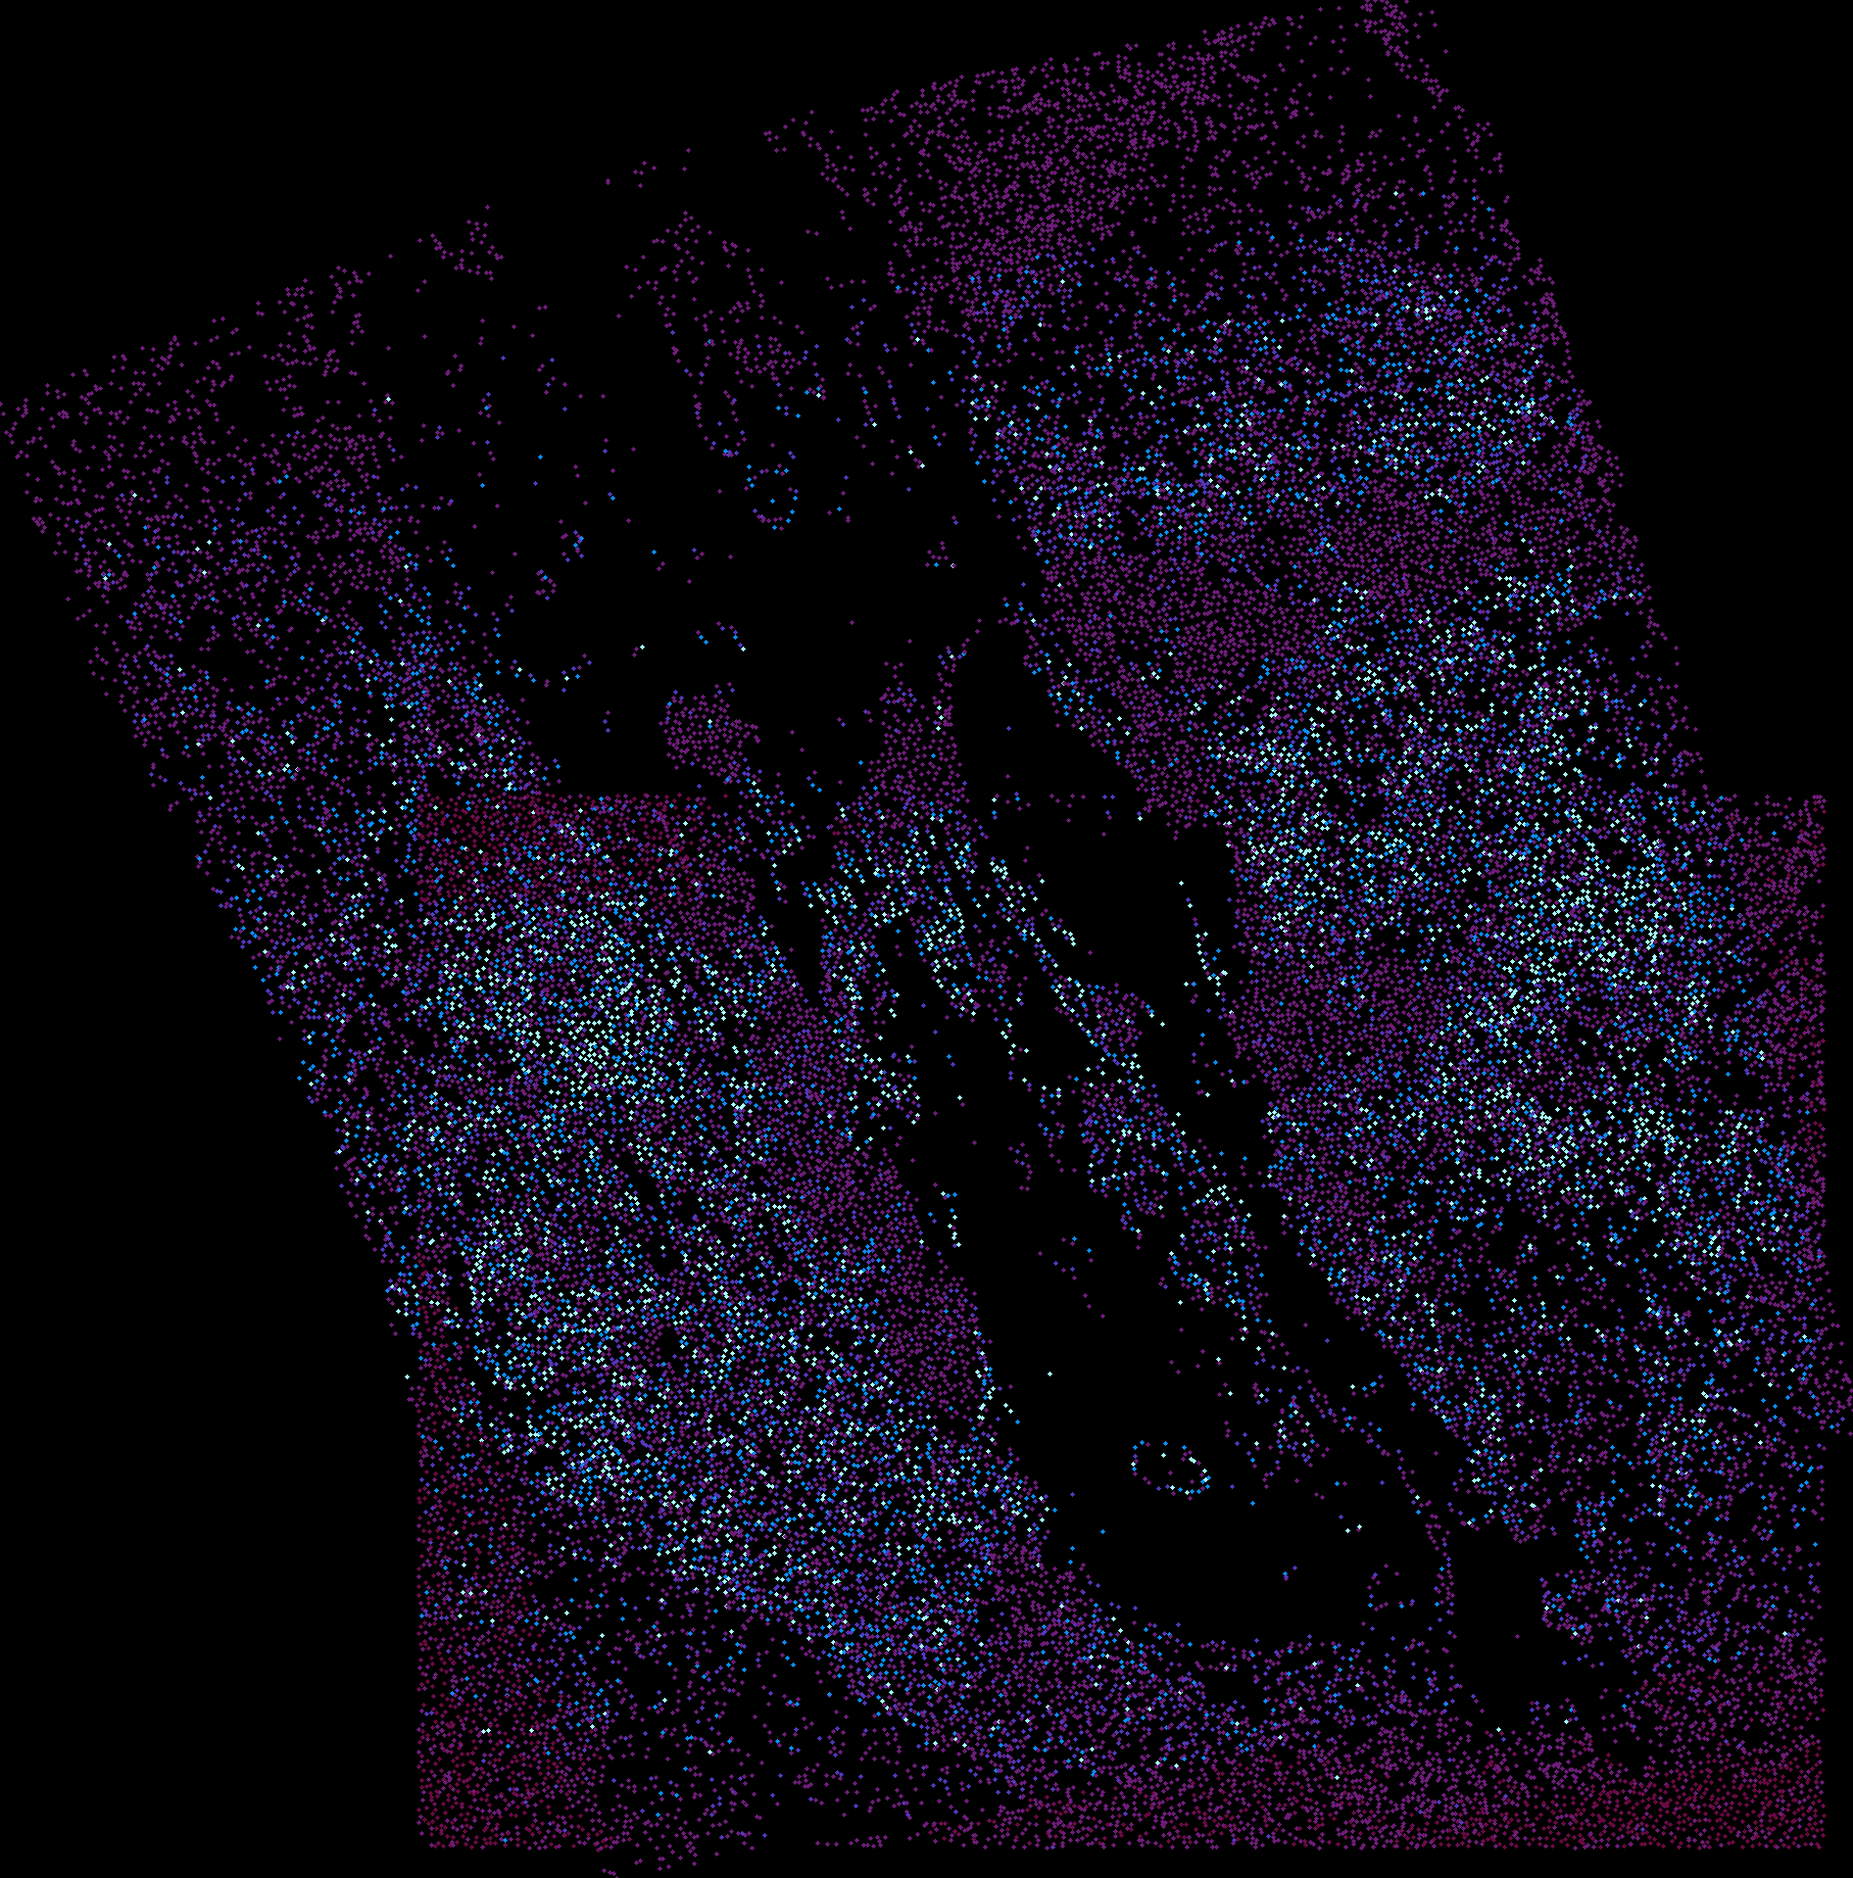
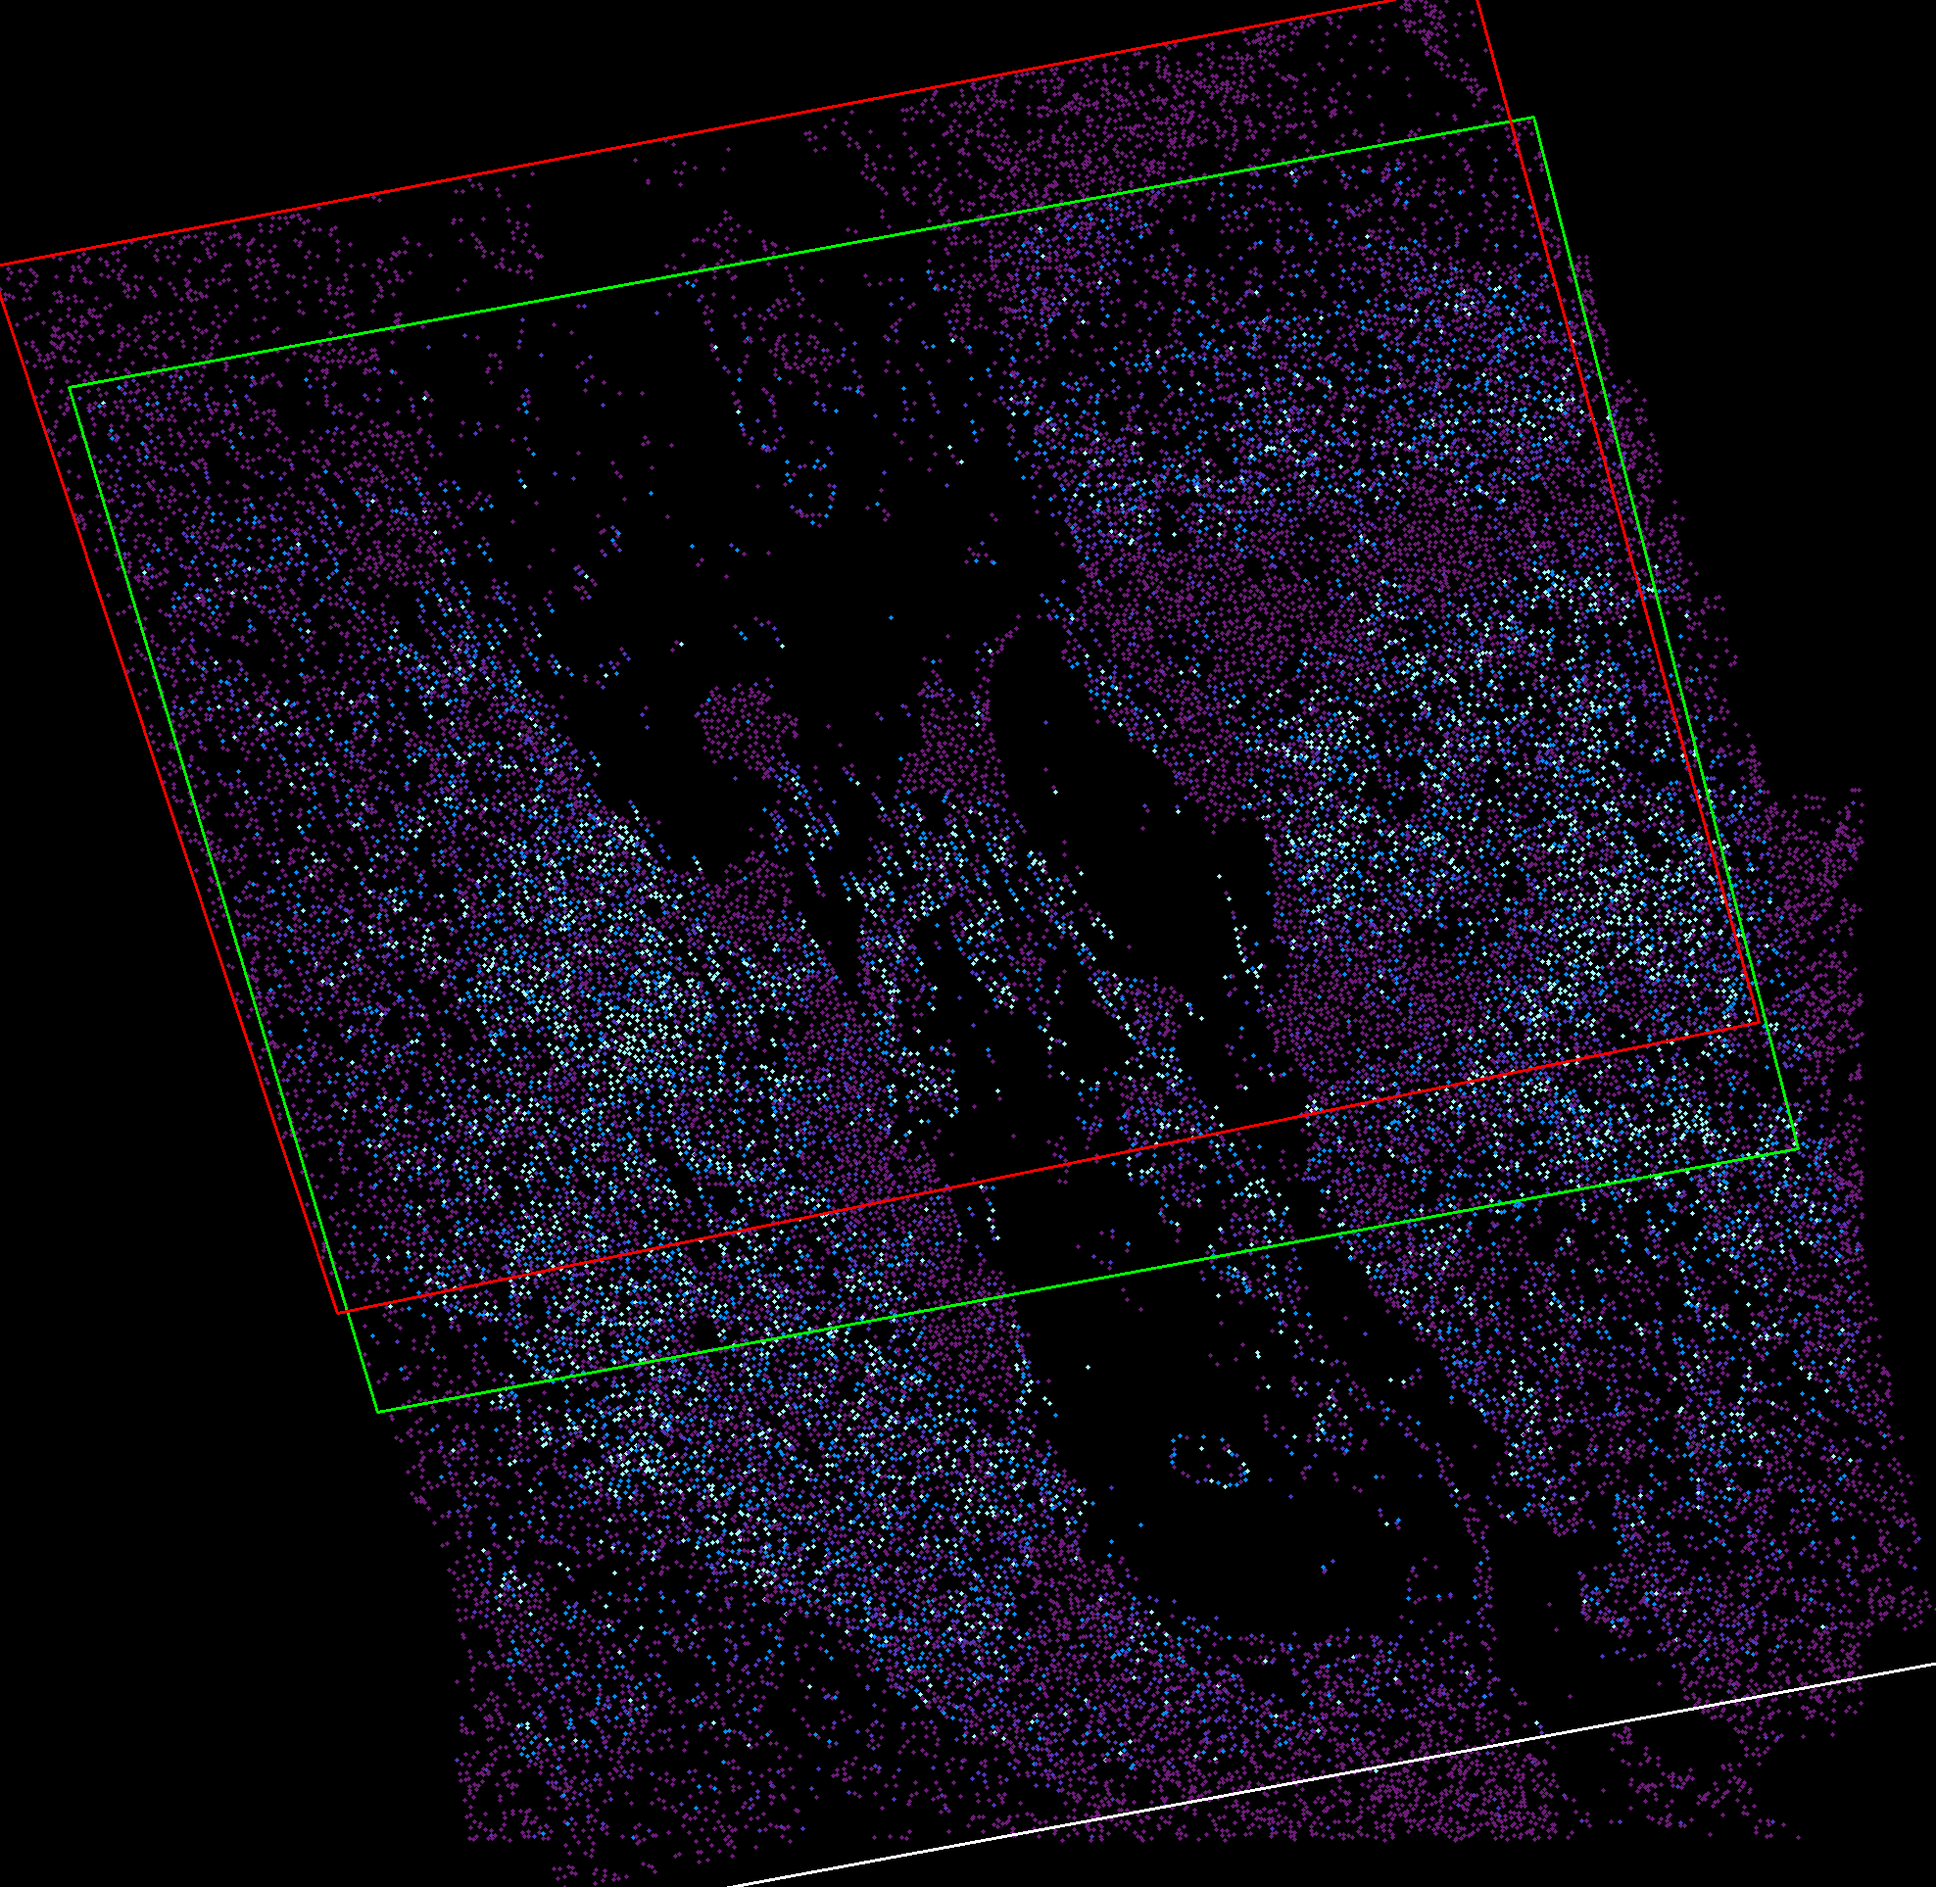
keypoints fixed

diff --git a/main.py b/main.py
@@ -70,16 +70,16 @@ def GetSearchArea(Frame, ScaleFactor=2):
 
     new_corners = center + scaled_vectors
 
-    plt.figure(figsize=(10, 10))
-    plt.plot(center[0], center[1], 'ro', label='Center')
-    plot_rectangle(corners, 'b', 'Original Frame')
-    plot_rectangle(new_corners, 'g', 'Search Area')
+    # plt.figure(figsize=(10, 10))
+    # plt.plot(center[0], center[1], 'ro', label='Center')
+    # plot_rectangle(corners, 'b', 'Original Frame')
+    # plot_rectangle(new_corners, 'g', 'Search Area')
 
-    plt.xlabel('X')
-    plt.ylabel('Y')
-    plt.grid(True)
-    plt.legend()
-    plt.title('Search Area for the Next Image')
+    # plt.xlabel('X')
+    # plt.ylabel('Y')
+    # plt.grid(True)
+    # plt.legend()
+    # plt.title('Search Area for the Next Image')
     
     # plt.savefig('search_area.png')
     # plt.show()
@@ -146,7 +146,8 @@ if __name__ == '__main__':
         # test_rotation = previous_box @ rotation_matrix
         # SearchArea = GetSearchArea(test_rotation, ScaleFactor=2)
         kp_storage.add_previous_box(previous_box)
-        SearchArea = GetSearchArea(previous_box, ScaleFactor=1.2)
+        # SearchArea = GetSearchArea(previous_box, ScaleFactor=1.05)
+        SearchArea = GetSearchArea(previous_box, ScaleFactor=1.5)
         keypoints1, descriptors1 = kp_storage.query_keypoints(SearchArea)
 
         #convert to numpy array
@@ -255,8 +256,18 @@ if __name__ == '__main__':
         for match in good_matches:
             kp_data = keypoints1[match.queryIdx]
 
-            # kp_coords = np.array(keypoints1[match.queryIdx].pt)
+            # kp_coords = np.array([[kp_data["coords"]]], dtype=np.float32)
+            # transformed_coords = cv.perspectiveTransform(np.array([kp_coords]).reshape(-1, 1, 2), H_inv)
             
+            # kpoint = cv.KeyPoint(
+            #     x=transformed_coords[0][0][0], 
+            #     y=transformed_coords[0][0][1], 
+            #     size=kp_data["scale"],
+            #     angle=kp_data["angle"],
+            #     response=kp_data["response"],
+            #     octave=kp_data["octave"]
+            # )
+
             kpoint = cv.KeyPoint(x=kp_data["coords"][0], 
                                  y=kp_data["coords"][1], 
                                  size=kp_data["scale"],
@@ -273,13 +284,14 @@ if __name__ == '__main__':
 
         ############ update realability by 0.7 to points that are not matched, but lying within the search area and new image area ########
 
-        print("Search Area: ", SearchArea)
+        # print("Search Area: ", SearchArea)
         search_area_polygon = Polygon(SearchArea.reshape(-1, 2))
 
         kp_storage.add_search_area(SearchArea)
         # new_image_bounding_box = cv.boundingRect(warped_corners_img2)
         # new_image_polygon = Polygon(warped_corners_img2.reshape(-1, 2))
         new_image_polygon = Polygon(transformed_corners_add.reshape(-1, 2))
+        kp_storage.add_new_image_polygon(transformed_corners_add.reshape(-1, 2))
 
         not_matched_keypoints = []
         not_matched_descriptors = []
@@ -287,24 +299,40 @@ if __name__ == '__main__':
         new_keypoints = []
         new_descriptors = []
         for kp, ds in zip(keypoints2, descriptors2):
-            if not search_area_polygon.contains(Point(kp.pt)) or not new_image_polygon.contains(Point(kp.pt)):
-                not_matched_keypoints.append(kp)
+
+            kp_coords = np.array([kp.pt], dtype=np.float32).reshape(-1, 1, 2)
+            transformed_coords = cv.perspectiveTransform(kp_coords, H_inv)
+            transformed_point = Point(transformed_coords[0][0][0], transformed_coords[0][0][1])
+
+            new_kp = cv.KeyPoint(x=transformed_coords[0][0][0], 
+                                 y=transformed_coords[0][0][1], 
+                                 size=kp.size,
+                                 angle=kp.angle,
+                                 response=kp.response,
+                                 octave=kp.octave)
+
+            # if not search_area_polygon.contains(Point(kp.pt)) or not new_image_polygon.contains(Point(kp.pt)):
+            if not search_area_polygon.contains(transformed_point) or not new_image_polygon.contains(transformed_point):
+                not_matched_keypoints.append(new_kp)
                 not_matched_descriptors.append(ds)
             else:
-                new_keypoints.append(kp)
+                new_keypoints.append(new_kp)
                 new_descriptors.append(ds)
 
         kp_storage.add_or_update_keypoints(not_matched_keypoints, not_matched_descriptors, color=color, reliability_multiplier=0.7, iteration=i+1)
 
-        keypoints2_coords = np.array([kp.pt for kp in new_keypoints], dtype=np.float32).reshape(-1, 1, 2)
+        # keypoints2_coords = np.array([kp.pt for kp in new_keypoints], dtype=np.float32).reshape(-1, 1, 2)
 
-        keypoints2_coords_transformed = cv.perspectiveTransform(keypoints2_coords, H_inv)
+        # keypoints2_coords_transformed = cv.perspectiveTransform(keypoints2_coords, H_inv)
 
-        if keypoints2_coords_transformed is None:
-            print("ERROR: keypoints2_coords_transformed is None, cannot add to storage")
-        else:
-            keypoints2_transformed = [cv.KeyPoint(x=pt[0][0], y=pt[0][1], size=1) for pt in keypoints2_coords_transformed]
-            kp_storage.add_or_update_keypoints(keypoints2_transformed, new_descriptors, color=color, iteration=i+1)
+        # if keypoints2_coords_transformed is None:
+        #     print("ERROR: keypoints2_coords_transformed is None, cannot add to storage")
+        # else:
+        #     keypoints2_transformed = [cv.KeyPoint(x=pt[0][0], y=pt[0][1], size=1) for pt in keypoints2_coords_transformed]
+        #     kp_storage.add_or_update_keypoints(keypoints2_transformed, new_descriptors, color=color, iteration=i+1)
+
+        kp_storage.add_or_update_keypoints(new_keypoints, new_descriptors, color=color, iteration=i+1)
+        
         
         # keypoints2_transformed = [cv.KeyPoint(x=pt[0][0], y=pt[0][1], size=1) for pt in keypoints2_coords_transformed]
         # if keypoints2_transformed is None:
@@ -325,14 +353,13 @@ if __name__ == '__main__':
 
     Sticher = stitcher.Stitcher(image_storage)
     # final_image = Sticher.stitch_images()
-    final_image = Sticher.stitch_images(blending=True)
-    # final_image = Sticher.stitch_images(gradient=True)
+    # final_image = Sticher.stitch_images(blending=True)
+    final_image = Sticher.stitch_images(gradient=True)
 
 
-    # cv.imwrite(f'out/blended/golf/blended_img_cnt{range_imgs+1}.png', main_canvas)
+    # cv.imwrite(f'out/blended/golf/blended_img_cnt{range_imgs+1}.png', final_image)
 
     cv.imwrite(f'out/blended/highway/blended_img_cnt_new_{range_imgs+1}.png', final_image)
-    # cv.imwrite(f'out/blended/highway/blended_img_cnt{range_imgs+1}.png', main_canvas)
 
     # count runtime
     end = time.time()

diff --git a/KeypointStorage.py b/KeypointStorage.py
@@ -12,12 +12,23 @@ class KeypointStorage:
         Parameters:
         - threshold: Distance threshold to consider a keypoint as an existing one (for updates).
         """
+        self.new_image_polygons = []
         self.previous_boxes = []
         self.search_areas = []
+
         self.keypoints_coords = []       # List to store coordinates for KDTree
         self.keypoints_data = {}         # Dictionary to store keypoints data
         self.kdtree = None               # KDTree for fast spatial lookup
         self.threshold = threshold       # Distance threshold for matching existing keypoints
+
+    def add_new_image_polygon(self, new_image_polygon):
+        """
+        Adds a new image polygon to the storage.
+        
+        Parameters:
+        - new_image_polygon: List of 4 coordinates (each a tuple of x, y) representing the corners of the new image.
+        """
+        self.new_image_polygons.append(new_image_polygon)
 
     def add_previous_box(self, previous_box):
         """
@@ -129,8 +140,8 @@ class KeypointStorage:
             kp_coords = kp_data["coords"]
             kp_reliability = kp_data["reliability"]
 
-            if kp_reliability <= 0.3:
-                continue
+            # if kp_reliability <= 0.3:
+            #     continue
 
             point = Point(kp_coords)
             if polygon.contains(point):
@@ -188,12 +199,28 @@ class KeypointStorage:
             # cv.circle(canvas, (int(x+offset_x), int(y+offset_y)), int(dot_size*reliability), color, -1)
             cv.circle(canvas, (int(x+offset_x), int(y+offset_y)), dot_size, color, -1)
         
-        for search_area in self.search_areas:
-            for i in range(4):
-                cv.line(canvas, (int(search_area[i][0]+offset_x), int(search_area[i][1]+offset_y)), (int(search_area[(i+1)%4][0]+offset_x), int(search_area[(i+1)%4][1]+offset_y)), (255, 255, 255), 2)
+        # for search_area in self.search_areas:
+        #     for i in range(4):
+        #         cv.line(canvas, (int(search_area[i][0]+offset_x), int(search_area[i][1]+offset_y)), (int(search_area[(i+1)%4][0]+offset_x), int(search_area[(i+1)%4][1]+offset_y)), (255, 255, 255), 2)
 
-        for previous_box in self.previous_boxes:
-            for i in range(4):
-                cv.line(canvas, (int(previous_box[i][0]+offset_x), int(previous_box[i][1]+offset_y)), (int(previous_box[(i+1)%4][0]+offset_x), int(previous_box[(i+1)%4][1]+offset_y)), (0, 255, 0), 2)
+        # for previous_box in self.previous_boxes:
+        #     for i in range(4):
+        #         cv.line(canvas, (int(previous_box[i][0]+offset_x), int(previous_box[i][1]+offset_y)), (int(previous_box[(i+1)%4][0]+offset_x), int(previous_box[(i+1)%4][1]+offset_y)), (0, 255, 0), 2)
+
+        # for new_image_polygon in self.new_image_polygons:
+        #     for i in range(4):
+        #         cv.line(canvas, (int(new_image_polygon[i][0]+offset_x), int(new_image_polygon[i][1]+offset_y)), (int(new_image_polygon[(i+1)%4][0]+offset_x), int(new_image_polygon[(i+1)%4][1]+offset_y)), (0, 0, 255), 2)
+
+        search_area = self.search_areas[-1]
+        for i in range(4):
+            cv.line(canvas, (int(search_area[i][0]+offset_x), int(search_area[i][1]+offset_y)), (int(search_area[(i+1)%4][0]+offset_x), int(search_area[(i+1)%4][1]+offset_y)), (255, 255, 255), 2)
+
+        previous_box = self.previous_boxes[-1]
+        for i in range(4):
+            cv.line(canvas, (int(previous_box[i][0]+offset_x), int(previous_box[i][1]+offset_y)), (int(previous_box[(i+1)%4][0]+offset_x), int(previous_box[(i+1)%4][1]+offset_y)), (0, 255, 0), 2)
+
+        new_image_polygon = self.new_image_polygons[-1]
+        for i in range(4):
+            cv.line(canvas, (int(new_image_polygon[i][0]+offset_x), int(new_image_polygon[i][1]+offset_y)), (int(new_image_polygon[(i+1)%4][0]+offset_x), int(new_image_polygon[(i+1)%4][1]+offset_y)), (0, 0, 255), 2)
 
         return canvas
